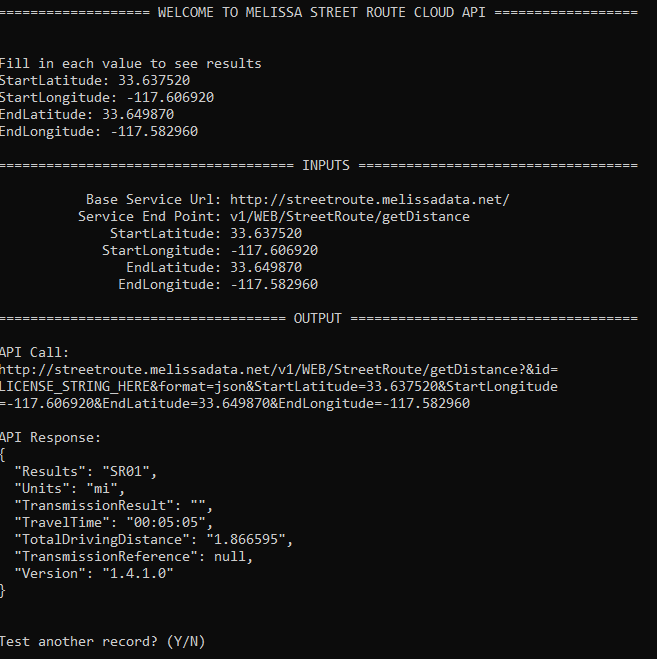
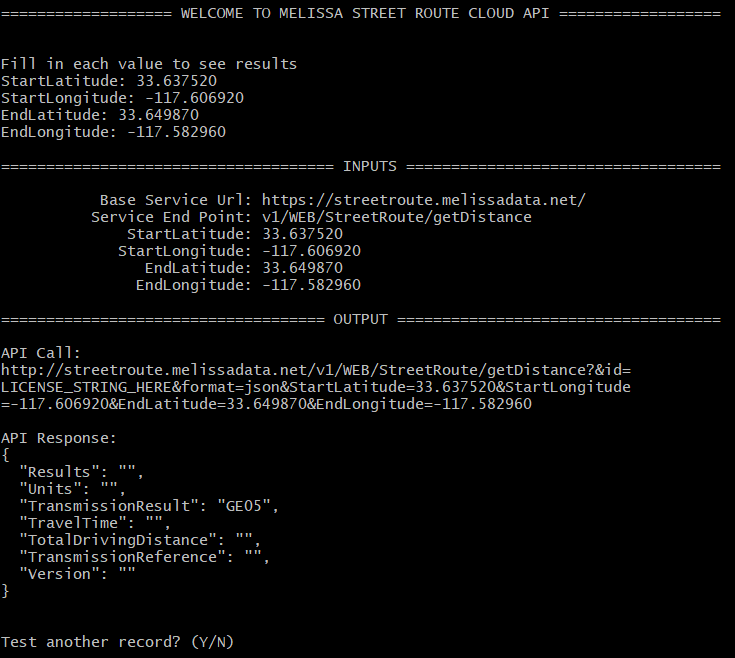
Update Street Route Cloud API

diff --git a/StreetRouteDotnet/Program.cs b/StreetRouteDotnet/Program.cs
@@ -6,7 +6,7 @@ namespace StreetRouteDotnet
   {
     static void Main(string[] args)
     {
-      string baseServiceUrl = @"http://streetroute.melissadata.net/";
+      string baseServiceUrl = @"https://streetroute.melissadata.net/";
       string serviceEndpoint = @"v1/WEB/StreetRoute/getDistance";
       string license = "";
       string startLat = "";
